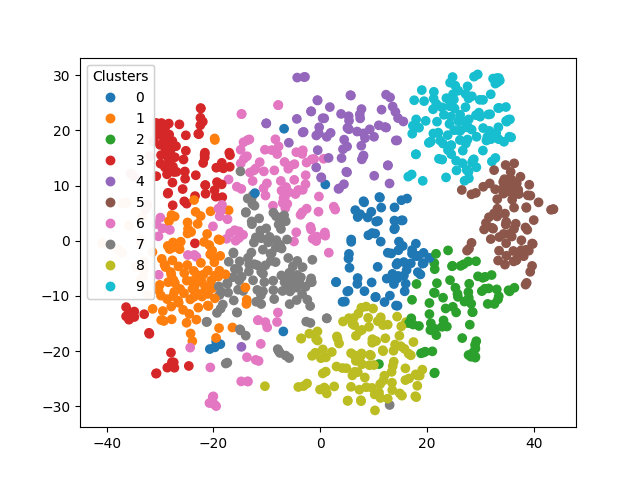
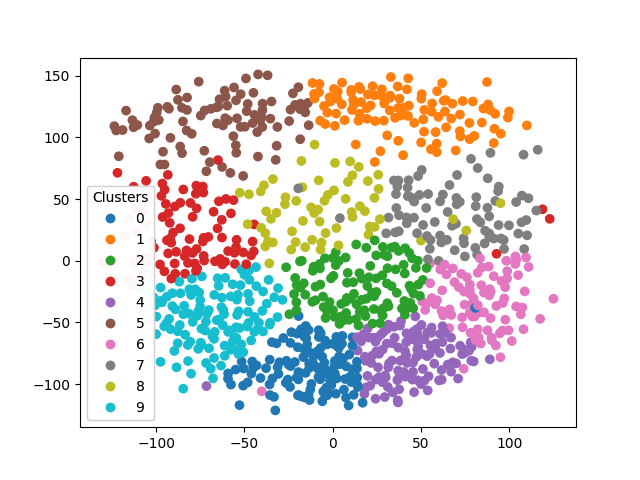
New plot

diff --git a/ps_vae/lightning.py b/ps_vae/lightning.py
@@ -39,4 +39,13 @@ class PseudoSpeakerVAE(pl.LightningModule):
         return {"loss": total_loss}
 
     def configure_optimizers(self):
-        return Adam(self.model.parameters(), **self.hparams["optimizer"])
+        optimizer = Adam(self.model.parameters(), **self.hparams["optimizer"])
+        scheduler = torch.optim.lr_scheduler.CosineAnnealingLR(optimizer, **self.hparams["scheduler"])
+        return {
+            'optimizer': optimizer,
+                'lr_scheduler': {
+                    'scheduler': scheduler,  # The learning rate scheduler instance
+                    'interval': 'epoch',       
+                    'frequency': 1,        
+                }
+            }

diff --git a/data_viz/clustering_analysis.py b/data_viz/clustering_analysis.py
@@ -43,7 +43,7 @@ metadata_mapping = {
 if __name__ == "__main__":
 
     N_SAMPLES = 1000
-    DIM_REDUCTION = "TSNE"
+    DIM_REDUCTION = "MDS"
     CLUSTERING = "KMeans"
     N_DIMS = 2
     N_CLUSTERS = 10
